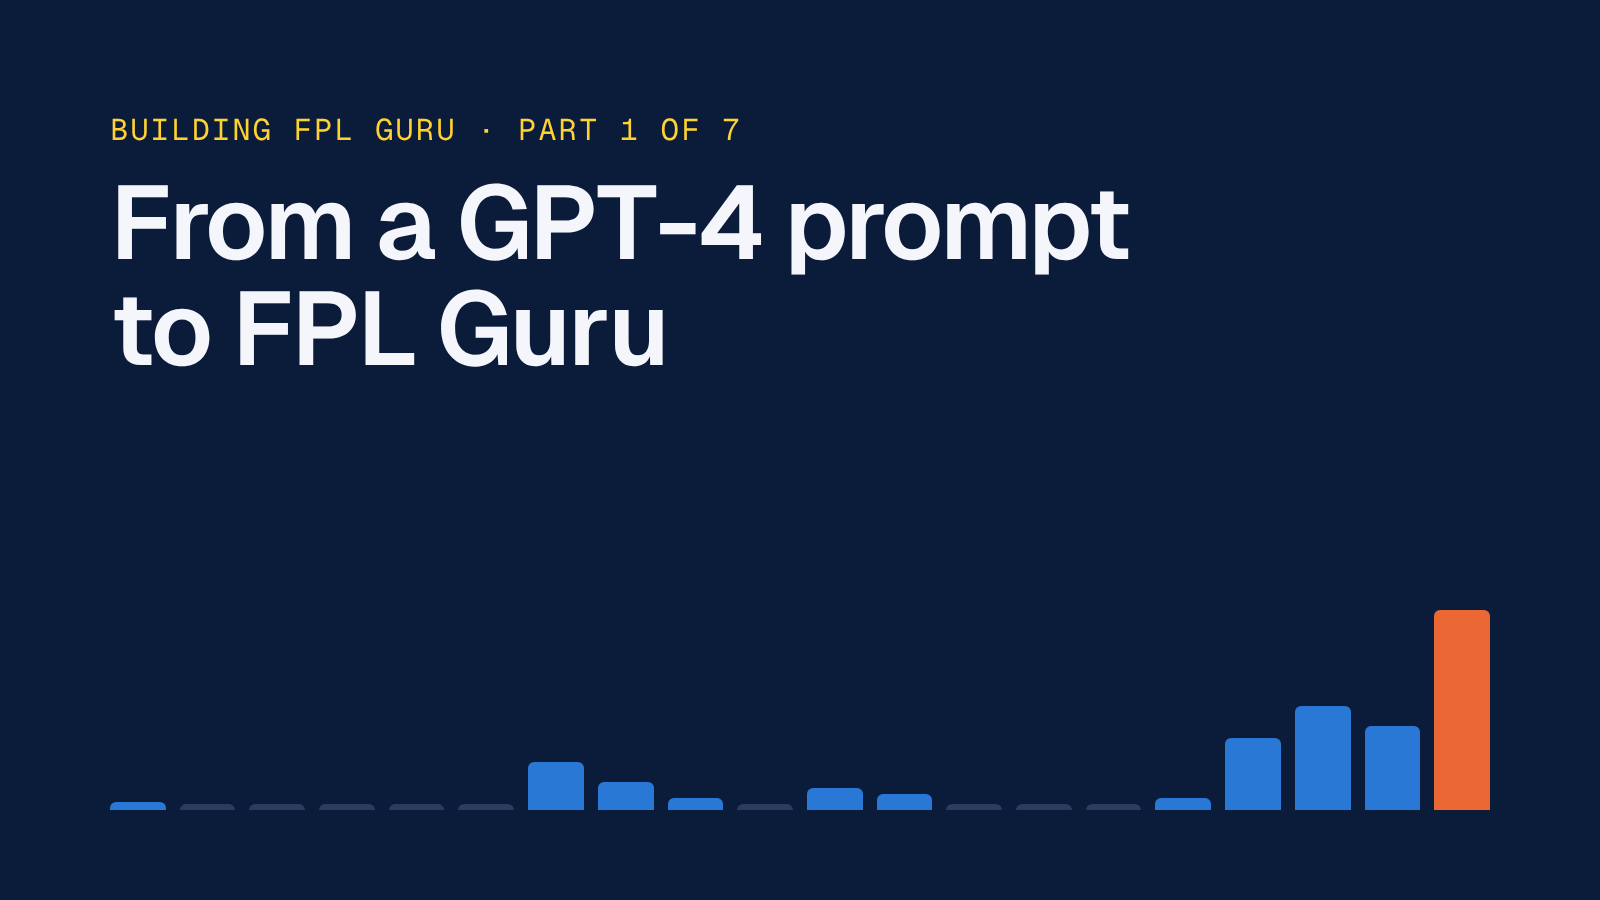
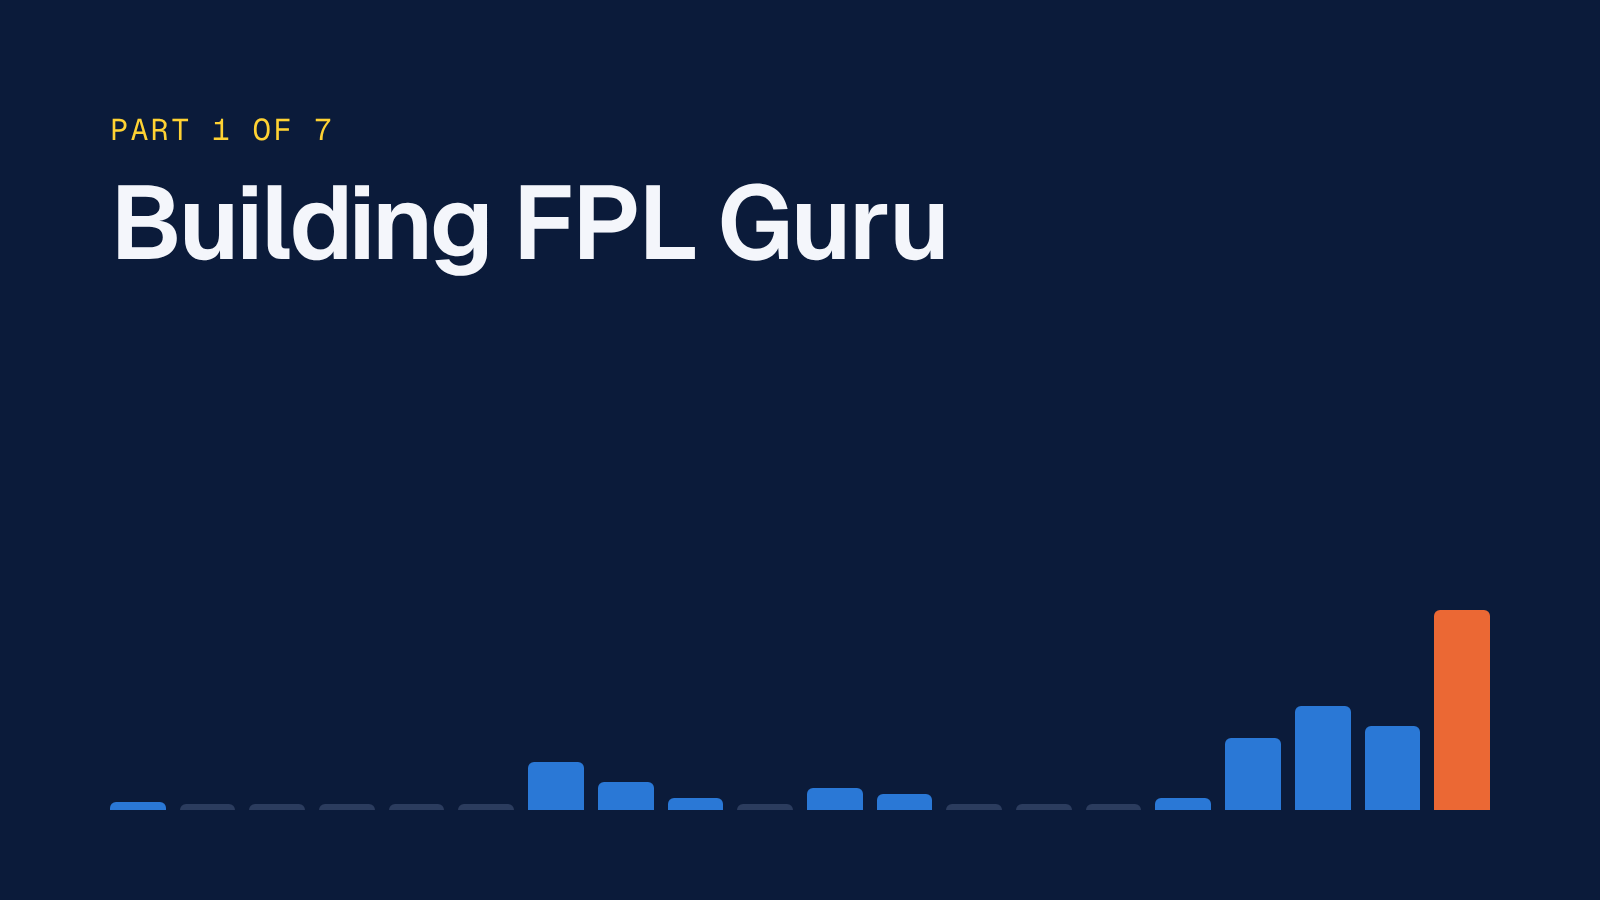
Show the series line and intro in the post header for part 1
The series line and the intro paragraph sat in the post body under the
title, and the cover repeated the title. A post with a series field now
shows the series line above the title and its description under it,
with a rule before the body. The cover shows the series name instead of
the post title. Also takes Darshan's wording change in "Copy, paste,
pray".

Claude-Session: https://claude.ai/code/session_01B4sdGQ4e3LyzS8kVTzk7k3

diff --git a/src/content.config.ts b/src/content.config.ts
@@ -24,6 +24,9 @@ const posts = defineCollection({
     category: z.enum(["tech", "fiction", "non-fiction"]),
     description: z.string().optional(),
     coverImage: z.string().startsWith("/images/posts/").optional(),
+    // Series line shown above the title, e.g. "Building FPL Guru · Part 1 of 7".
+    // A post with a series also shows its description under the title.
+    series: z.string().optional(),
     draft: z.boolean().default(false),
   }),
 });
